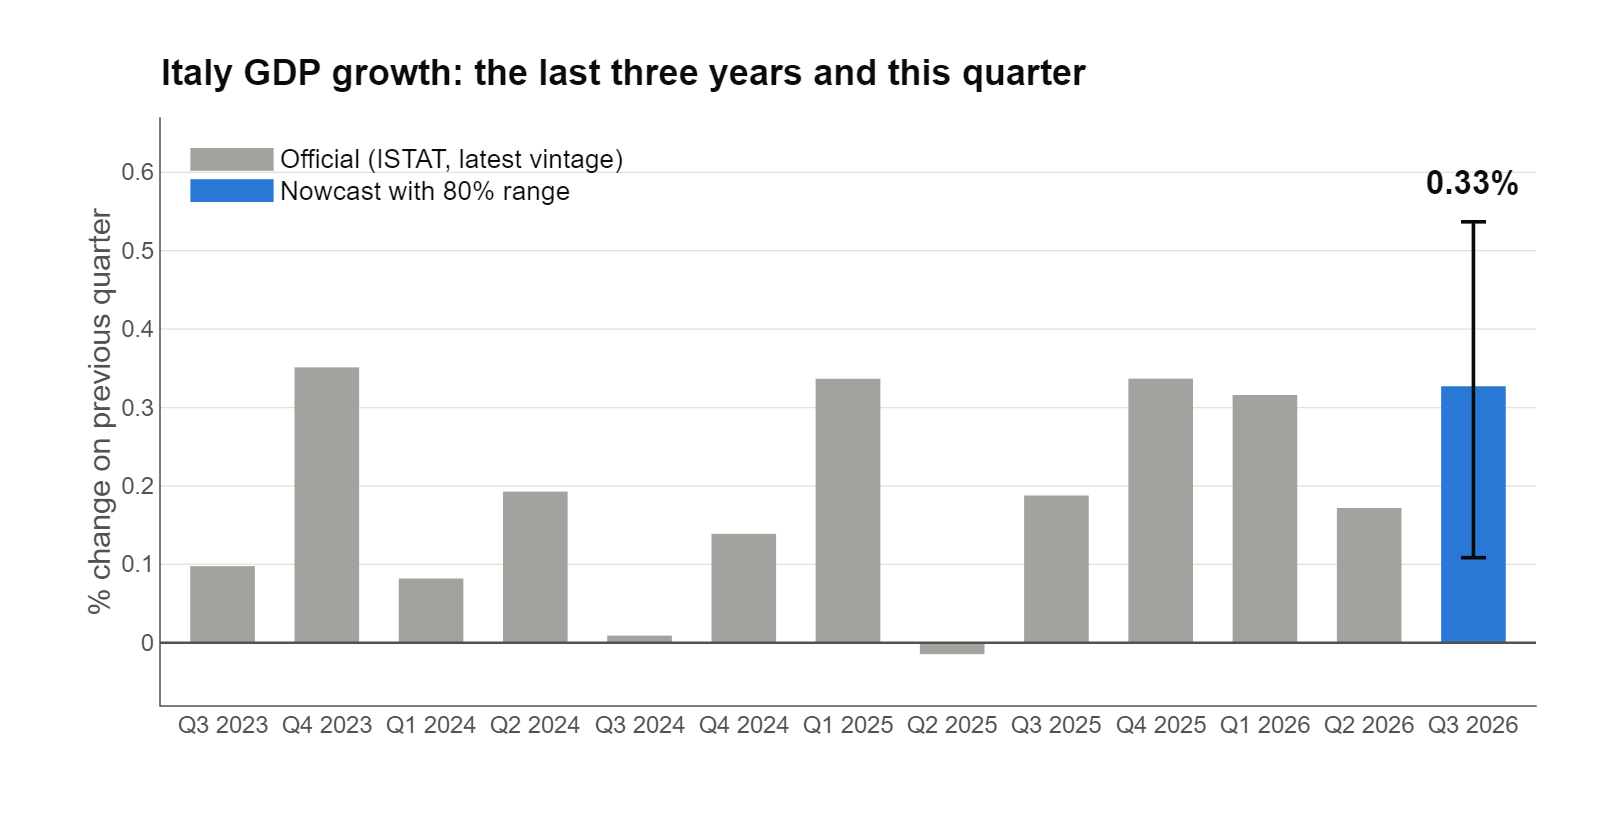
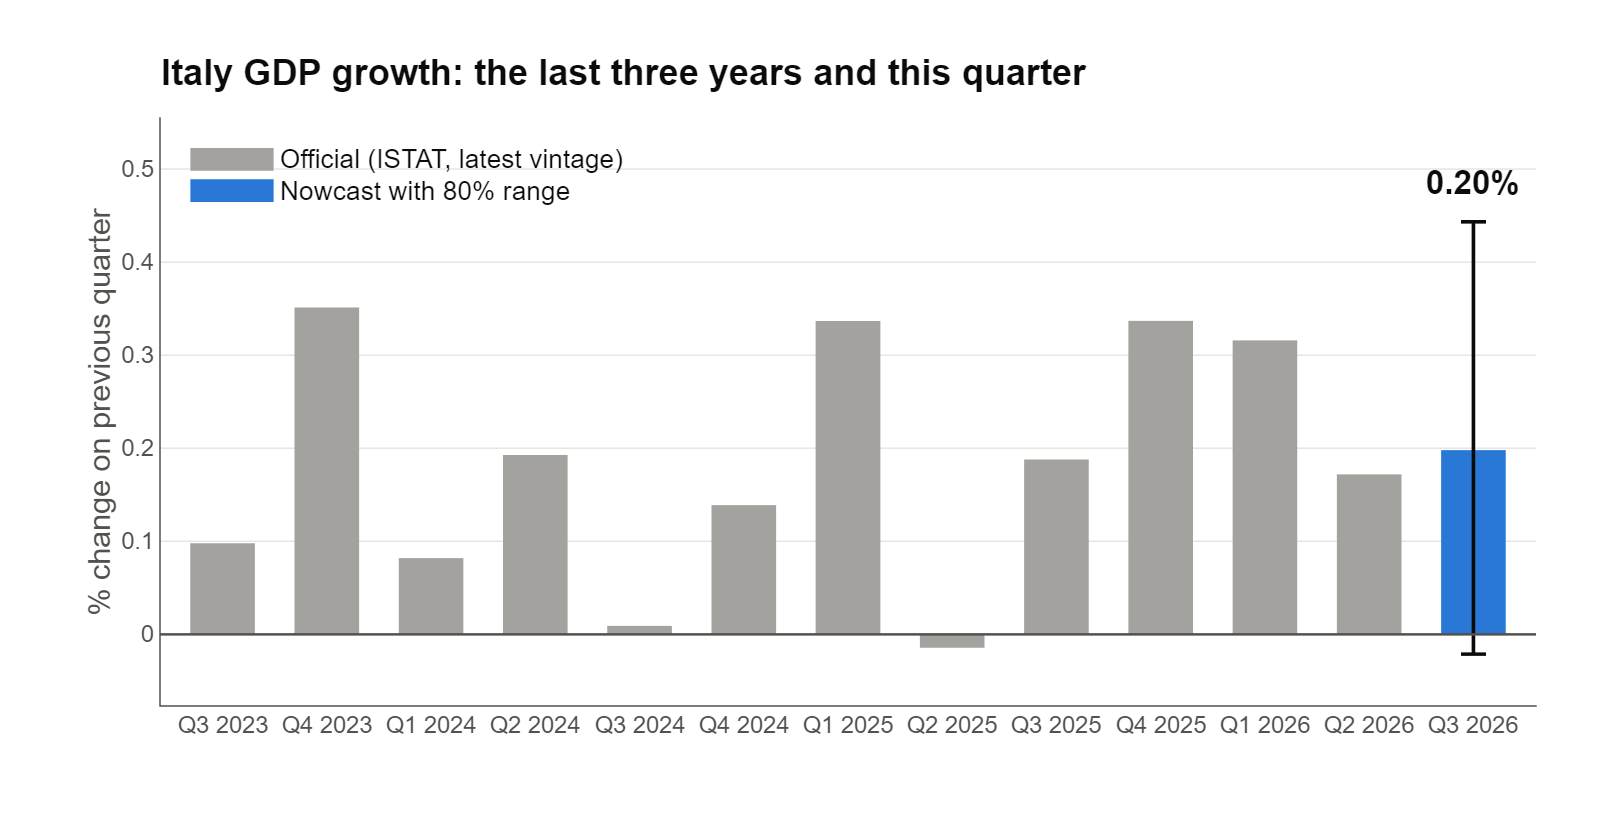
update it now page

diff --git a/_pages/nowcast.md b/_pages/nowcast.md
@@ -5,9 +5,9 @@ permalink: /nowcast/
 author_profile: true
 ---
 
-**Latest estimate, 30 September 2026:** Italy's real GDP in **Q3 2026** is growing by **0.33%** compared with the previous quarter.
-Likely range (80% probability): 0.11% to 0.54%. Compared with a year earlier: 1.15%.
-The estimate is up 0.08 percentage points from last week.
+**Latest estimate, 1 October 2026:** Italy's real GDP in **Q3 2026** grew by **0.20%** compared with the previous quarter.
+Likely range (80% probability): -0.02% to 0.44%. Compared with a year earlier: 1.02%.
+The estimate is down 0.05 percentage points from last week.
 {: .notice--primary style="font-size: 1.1em !important; line-height: 1.6;"}
 
 *Updated every Friday. Next official figure: ISTAT preliminary estimate for Q3 2026, due 30 October 2026.*
@@ -26,6 +26,10 @@ Each point is the estimate made on that Friday with the data available at the ti
 New data published since last week:
 
 - Industrial confidence (Sep 2026): +1.2 points
+- 1-year Euribor interest rate (Sep 2026): +0.29 percentage points
+- Consumer prices (HICP) (Aug 2026): +0.1% on previous month
+- Consumer prices (HICP) (Jul 2026): -1.0% on previous month
+- Consumer prices (HICP) (Jun 2026): +0.0% on previous month
 
 ## In context
 
@@ -43,7 +47,7 @@ Grey bars are official ISTAT figures (latest available vintage); the blue bar is
 
 | Estimate made on | Quarter-on-quarter | 80% range | Year-on-year |
 |---|---:|---:|---:|
-| 30 September 2026 | 0.33% | 0.11% to 0.54% | 1.15% |
+| 1 October 2026 | 0.20% | -0.02% to 0.44% | 1.02% |
 | 25 September 2026 | 0.25% | 0.02% to 0.47% | 1.07% |
 | 18 September 2026 | 0.25% | 0.02% to 0.47% | 1.07% |
 | 11 September 2026 | 0.30% | 0.06% to 0.52% | 1.12% |
@@ -67,7 +71,11 @@ Grey bars are official ISTAT figures (latest available vintage); the blue bar is
 
 | Week of | Indicator | Data for | Change on previous period |
 |---|---|---|---:|
-| 30 September 2026 | Industrial confidence | Sep 2026 | +1.2 points |
+| 1 October 2026 | Industrial confidence | Sep 2026 | +1.2 points |
+| 1 October 2026 | 1-year Euribor interest rate | Sep 2026 | +0.29 percentage points |
+| 1 October 2026 | Consumer prices (HICP) | Aug 2026 | +0.1% on previous month |
+| 1 October 2026 | Consumer prices (HICP) | Jul 2026 | -1.0% on previous month |
+| 1 October 2026 | Consumer prices (HICP) | Jun 2026 | +0.0% on previous month |
 | 18 September 2026 | Exports | Jul 2026 | +0.3% on previous month |
 | 18 September 2026 | Imports | Jul 2026 | -1.2% on previous month |
 | 11 September 2026 | Industrial production | Jul 2026 | +0.7% on previous month |
@@ -95,8 +103,8 @@ Grey bars are official ISTAT figures (latest available vintage); the blue bar is
 
 | Week of | Indicator | Data for | Old value | New value |
 |---|---|---|---:|---:|
-| 30 September 2026 | Industrial confidence | Aug 2026 | -4.80 | -4.40 |
-| 30 September 2026 | Industrial confidence | Jul 2026 | -5.40 | -5.20 |
+| 1 October 2026 | Industrial confidence | Aug 2026 | -4.80 | -4.40 |
+| 1 October 2026 | Industrial confidence | Jul 2026 | -5.40 | -5.20 |
 | 18 September 2026 | Imports | Jun 2026 | 10.89 | 10.88 |
 | 11 September 2026 | Industrial production in Germany | Jun 2026 | 4.52 | 4.52 |
 | 4 September 2026 | Retail sales (volume) | Jun 2026 | 4.59 | 4.58 |
@@ -129,4 +137,4 @@ Grey bars are official ISTAT figures (latest available vintage); the blue bar is
 
 ---
 
-<small>Page generated automatically on 30 Sep 2026 17:02.</small>
+<small>Page generated automatically on 01 Oct 2026 10:06.</small>

diff --git a/_includes/nowcast_intro.md b/_includes/nowcast_intro.md
@@ -1,7 +1,7 @@
 ## What is this?
 
-GDP measures the total value of what an economy produces. It is the broadest gauge of how the economy is doing, but it arrives late: ISTAT publishes its first estimate for a quarter about 30 days after the quarter ends. Until then, nobody knows for sure how the economy is doing *right now*.
+GDP measures the total value of what an economy produces. It is the broadest gauge of how the economy is doing, but it arrives late: ISTAT publishes its first estimate for a quarter about 30 days after the quarter ends. Until then, we lack an estimate for how the economy is doing *right now*.
 
-A **nowcast** fills that gap. Every Friday I collect monthly indicators that come out well before GDP (industrial production in Italy and Germany, retail sales, exports and imports, unemployment, business and consumer confidence, inflation and interest rates) and use a statistical model to turn them into an estimate of GDP growth in the current quarter. As the quarter goes on and more data arrive, the estimate is updated and usually becomes more precise.
+A **nowcast** fills that gap. Every Friday I collect monthly indicators that come out well before GDP release (i.e. industrial production in Italy and Germany, retail sales, exports and imports, unemployment, business and consumer confidence, inflation and interest rates) and use a statistical model to turn them into an estimate of GDP growth in the current quarter. As the quarter goes on and more data arrive, the estimate is updated and usually becomes more precise.
 
-**How to read it.** Growth is measured against the previous quarter, which is how ISTAT and the press report it. A value of 0.25% means GDP is about a quarter of a percent higher than three months earlier; negative values mean the economy is shrinking. Every estimate comes with a range, because it is based on incomplete information.
+**How to read it.** Growth is measured against the previous quarter, which is how ISTAT and the press report it. A value of 0.25% means GDP is about a quarter of a percent higher than three months earlier; negative values mean the economy is shrinking. Every estimate comes with a range, because it is based on incomplete real-time information.

diff --git a/_includes/nowcast_method.md b/_includes/nowcast_method.md
@@ -1,6 +1,6 @@
 ## About the model
 
-The nowcast comes from a mixed-frequency Bayesian vector autoregression (MF-BVAR, as in Schorfheide and Song, 2015, *Journal of Business & Economic Statistics*). The model describes how the monthly indicators and quarterly GDP move together, and uses that relationship to fill in the months and quarters that have not been published yet. Uncertainty is measured by simulating the model many times; the ranges shown on this page come from those simulations.
+The nowcast comes from a mixed-frequency Bayesian vector autoregression (MF-BVAR, as in Schorfheide and Song, 2015, *Journal of Business & Economic Statistics*). The model describes how the monthly indicators and quarterly GDP move together, and uses that historical relationship to fill in the months and quarters that have not been published yet. Uncertainty is measured by simulating the model many times; the ranges shown on this page come from those simulations.
 
 The model parameters are estimated on data from 2000 to 2024 and kept fixed; each week only the data are updated, so changes in the nowcast come from new information, not from re-estimation. The model is estimated with the [Empirical Macro Toolbox](https://github.com/naffe15/BVAR_) (see [Ferroni and Canova, 2020](https://github.com/naffe15/BVAR_/blob/master/HitchhikerGuide_.pdf)). Data come from Eurostat, ISTAT and the ECB.
 
